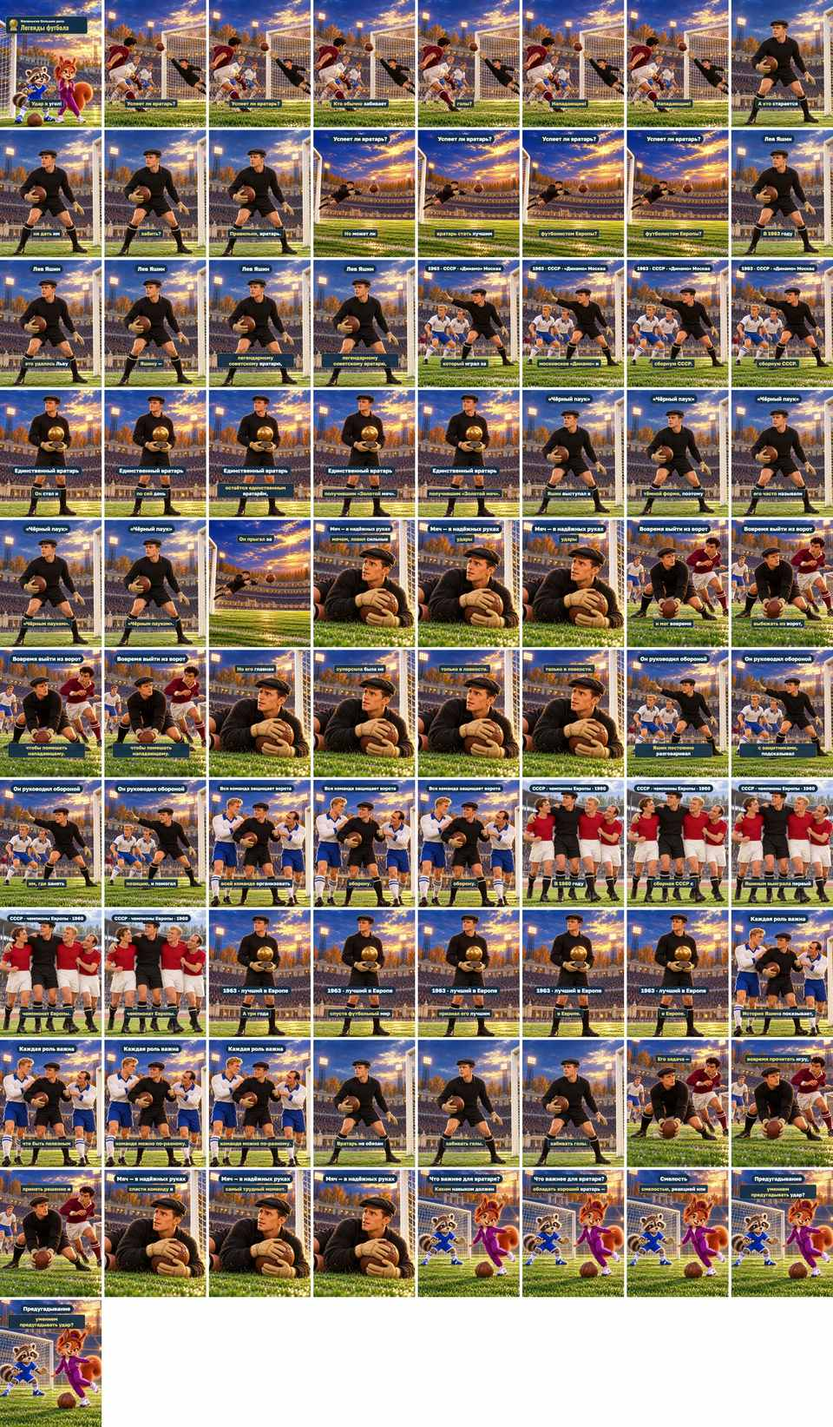
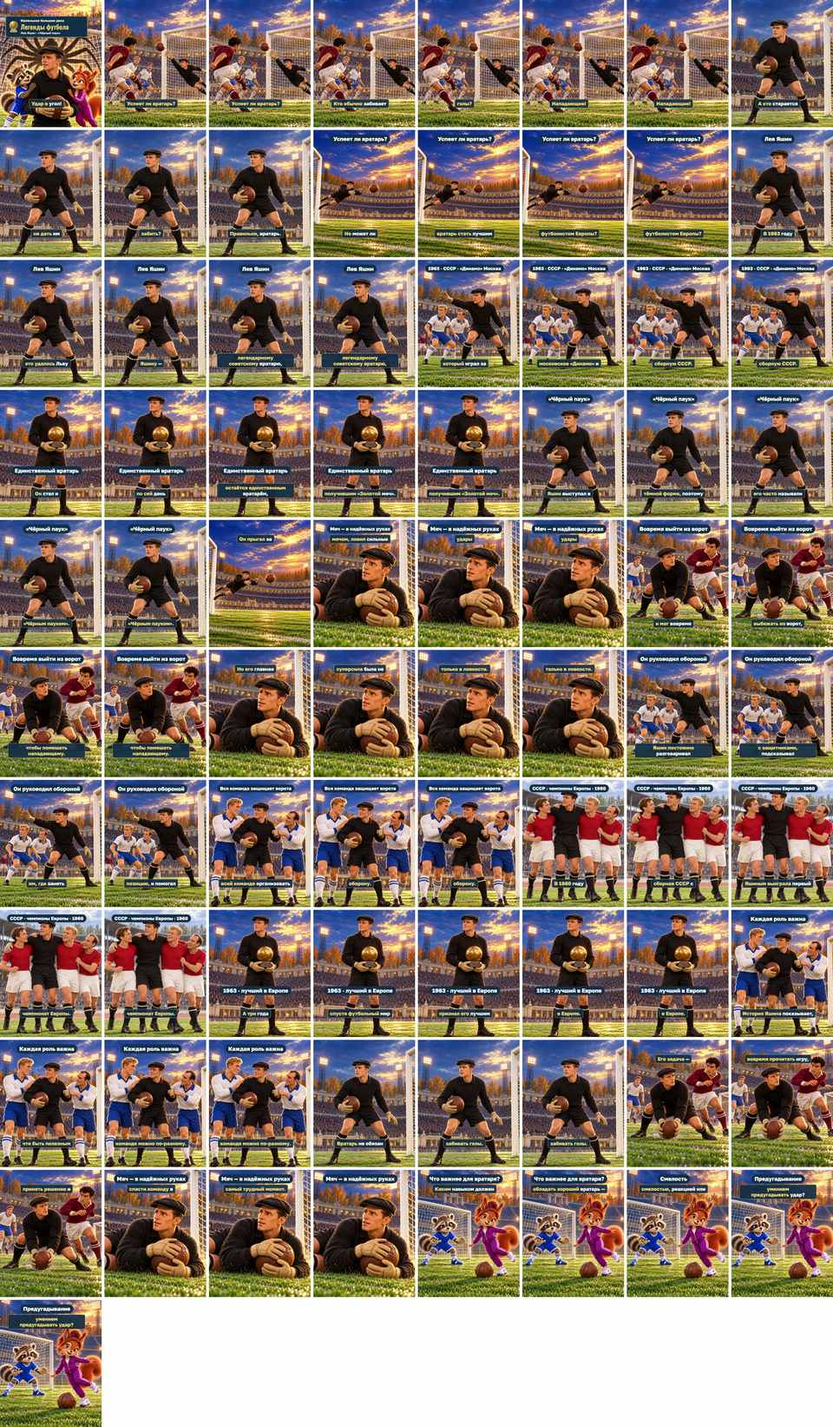
Give Yashin a Black Spider series opening

Changed region(s): [[0.0, 0.0, 0.125, 0.0931]]

diff --git a/docs/planning/HANDOFF.md b/docs/planning/HANDOFF.md
@@ -12,7 +12,7 @@
 
 **Выпуск 8 «Денис Лоу — король голов», актуализация 31.10.2026:** [выпуск](../../content/videos/football-legends-08-law/README.md) обновлён после просмотра владельцем. На первом кадре оба названия серии, значок, имя и проверенное прозвище «Король» (The King, Denis Law Legacy Trust), на картинке добродушная шутка — наклонённая корона. Историческая форма/старый Stretford End/северный свет и прежние Матвей/София сохранены. Новое правило в AGENTS.md, библии/формате и рецепте: имя + проверенное прозвище/отличительная черта + узнаваемая визуальная идея, не выдавать метафору за исторический костюм и не придумывать прозвища. Следующие/намеренно переделанные эпизоды применяют его, старые выдачи автоматически не заменяются. По отзыву об ударении реплика переформулирована: «эти мастера́ с разными умениями…» вместо «три разных ма́стера…»; последнее нормативно после числительного, поэтому глобальную ошибочную замену не внесли. Словарный источник Gramota/mark:false, явная подсказка мастерА только в новой однозначной фразе. Прежний OmniVoice B0,90/off; новая запись только team, хеши других12 реплик неизменны. 83.03с/13сцен, 1080×1920/30, QA15/15, декод по2488кадров, просмотрены 36 моментов MP4 и кропы, 163 моментов субтитров/76 обратных переходов без ошибок. Встроенный GPT Image без раскрытого идентификатора: 21 генерация/12 выбранных. Выдача ~/Downloads/football-legends-08-law-2026-10-31/ обновлена, V1 мастер сохранён в .reel/history/v1. Остальной текст владельца сохранён, цифры237/404 привязаны к источнику. Одобрения технические, слуховая/редакторская оценка владельцем открыта; публикации нет.
 
-**Выпуск 7 «Лев Яшин — вратарь, который получил „Золотой мяч“», 30.10.2026:** [собран](../../content/videos/football-legends-07-yashin/README.md) по тексту владельца с просьбой об остросюжетности и ярких детальных рисунках. Общий первый кадр: «Маленькие большие дела», «Легенды футбола» и золотой значок, прежние Матвей/София. Встроенный GPT Image (версия не раскрыта инструментом), 17 генераций/11 выбранных картинок, архивный эталон лица; тёмный свитер/кепка, мокрый изумрудный газон, сапфир/золото, разные лица и форма команд, отдельная сборная СССР в 1960-м. Игровые действия/свет/погода художественные, не реконструкция матча; адаптации архива с отдельной атрибуцией в CREDITS.md. Добавлен короткий хук «Удар в угол! Успеет ли вратарь?», тело/финальный вопрос сохранены. Полёт, перчатки с мячом, перехват и руководство обороной; титры сдвинуты с действия. Прежний OmniVoice B 0,90/off; оборвавшийся ответ «Правильно, вратарь» восстановлен объединением реплик, новая запись совпадает на100%; голы́ с ударением наЫ сохранены. 90.19 с, 17 сцен, 1080×1920/30fps, QA 15/15, полный декод обоих MP4 по 2702 кадров, 46 просмотренных моментов, 175 моментов субтитров/98 обратных переходов без ошибок. Выдача ~/Downloads/football-legends-07-yashin-2026-10-30/. Одобрения только технические, оценка голоса/выпуска владельцем открыта; публикации нет. Эффект удержания не измерен.
+**Выпуск 7 «Лев Яшин — вратарь, который получил „Золотой мяч“», паучья заставка 31.10.2026:** [выпуск](../../content/videos/football-legends-07-yashin/README.md) намеренно переделан по просьбе владельца вслед за короной Лоу. На первом кадре оба названия, золотой знак, «Лев Яшин · „Чёрный паук“», сам Яшин с мячом и прежние Матвей/София. На сетке за вратарём отдельный крупный паучий силуэт, не пририсованные человеческие конечности и не исторический маскот; прозвище перепроверено у организатора Ballon d’Or. Сохранены чёрный свитер/кепка, эпоха и мокрая изумрудно-сапфирово-золотая атмосфера. Встроенный GPT Image, версия инструментом не раскрыта: 18 генераций/11 выбранных, архивная атрибуция/CC BY-SA3.0NL новой заставки сохранены. Только первый фон/имя/прозвище и производные превью изменены. Все 17 записей голоса совпадают по SHA256, все начала/длительности сцен прежние: OmniVoice B0,90/off, полные реплики, голы́ сохранены. 90.19с/17сцен, 1080×1920/30, QA15/15, декод по2702кадров, 46 просмотренных моментов MP4 и кропы, 175 моментов субтитров/98 обратных переходов без ошибок. Новая выдача ~/Downloads/football-legends-07-yashin-spider-2026-10-31/, прежняя от30.10 сохранена. Принцип подтверждён в библии/рецепте; другие прежние эпизоды автоматически не меняются. Одобрения технические, слуховая/редакторская оценка владельцем открыта; публикации нет.
 
 **Общая тема «Легенд футбола» и выпуск 6, 30.10.2026:** владелец закрепил на первом кадре «Маленькие большие дела», «Легенды футбола» и знак золотого мяча; общая scene series-cover, football-legends.css и SVG, голос сразу, переход в историю по реплике. Правило записано в AGENTS.md, библии и [рецепте](../how-to/football-series.md); одинаковы ведущие/типографика, отличаются исследованные место, эпоха, форма, лица команд, свет и палитра. Применено к Сивори (новая выдача 81,324 с; прежние выбранные аудиореплики и голы́/удосто́енным сохранены) и [Масопусту](../../content/videos/football-legends-06-masopust/README.md). Для Масопуста — солнечный Сантьяго/«Насьональ» и отдельная пражская сцена «Дуклы», встроенный GPT Image по прямому выбору владельца, версия модели не раскрыта инструментом, 15 генераций/10 выбранных картинок; источник лица и условия адаптаций в CREDITS.md. По дополнительной просьбе владелец разрешил пилот удержания: начальный парадокс, смены планов, счёт, поражение, ответ про вклад и поддержка. Исходное тело/вопрос сохранены, добавлен только хук. Это гипотеза, метрик досмотров нет. Масопуст: 88.09 с, QA 15/15, 2638 кадров в каждом MP4, 41 просмотренных моментов, 175 моментов субтитров и 90 обратных переходов без ошибок. 124 теста прошли. Выдачи ~/Downloads/football-legends-06-masopust-2026-10-30/ и ~/Downloads/football-legends-05-sivori-series-2026-10-30/. Старые эпизоды 1–4 автоматически не переизданы. Одобрения технические; прослушивание/оценка владельцем открыты, публикации нет.
 

diff --git a/content/videos/football-legends-07-yashin/README.md b/content/videos/football-legends-07-yashin/README.md
@@ -2,7 +2,9 @@
 
 Выпуск **7** [«Легенд футбола»](../../series/football-legends.md), текст владельца от 30.10.2026. По просьбе сделать историю остросюжетнее добавлена короткая завязка «Удар в угол! Успеет ли вратарь?». Исходный рассказ и финальный вопрос сохранены, скопированная подпись источника и служебные заголовки убраны.
 
-Первый кадр сразу показывает «Маленькие большие дела», «Легенды футбола» и общий золотой футбольный значок. Ведущие Матвей и София прежние. У этого выпуска своя атмосфера: мокрый изумрудный газон, сапфировое небо, золотистый свет, капли на сетке и чёрная форма вратаря. Приближающийся удар → прыжок → мяч в перчатках → выход из ворот → подсказки обороне → команда. Крупный план чередуется с общим, камера и эффекты следуют репликам. Сцены — художественная иллюстрация эпохи, не реконструкция конкретного спасения; «Чёрный паук» остаётся прозвищем, лишних рук/лап нет.
+Первый кадр сразу показывает «Маленькие большие дела», «Легенды футбола», общий золотой футбольный значок и **«Лев Яшин · „Чёрный паук“»**. По просьбе владельца от 31.10.2026 заставка переделана в узнаваемую метафору прозвища: Яшин с мячом, прежние Матвей и София, на сетке позади — отдельный крупный силуэт паука. У вратаря обычные две руки, силуэт не присоединён к телу; это визуальная шутка, не исторический факт и не новый ведущий серии.
+
+У этого выпуска своя атмосфера: мокрый изумрудный газон, сапфировое небо, золотистый свет, капли на сетке и чёрная форма вратаря. Приближающийся удар → прыжок → мяч в перчатках → выход из ворот → подсказки обороне → команда. Крупный план чередуется с общим, камера и эффекты следуют репликам. Сцены — художественная иллюстрация эпохи, не реконструкция конкретного спасения. Обновлены только заставка и связанные подписи/превью; рассказ, голос, тайминги и остальные сцены сохранены.
 
 Для сходства использованы архивный портрет и постоянный эталон Яшина: длинное лицо, характерный нос/скулы, короткий пробор, кепка, тёмный свитер и простые перчатки. У защитников и нападающего разные лица и форма. Сборная СССР в отдельной сцене 1960 года отличается от клубного эпизода. [Источники и оговорки](sources.md) · [промпты, эталоны и происхождение](images.json) · [кредиты](CREDITS.md).
 
@@ -10,10 +12,10 @@
 
 ## Техническая проверка
 
-90,19 с, 17 сцен, 1080×1920/30 fps, H.264/AAC, −14 LUFS. QA 15/15, мастер и web полностью декодируются по 2702 кадров; просмотрены 46 моментов MP4, включая первый/последний кадры и смены по репликам. Геометрия 175 моментов субтитров и 98 обратного перехода — без ошибок; кропы ленты и обложки просмотрены. В крупных планах подписи подняты на свободный фон, чтобы не закрывать мяч, перчатки и игровой жест.
+Версия с паучьей заставкой: 90,19 с, 17 сцен, 1080×1920/30fps, H.264/AAC, −14 LUFS. QA15/15; оба MP4 полностью декодируются по 2702 кадров. Просмотрены 46 моментов готового MP4, первый/последний кадры, смена заставки, игровые действия и кропы ленты/обложки. 175 моментов субтитров и 98 обратных переходов без ошибок. Имя/прозвище и лица внутри центрального квадрата; отдельный силуэт на сетке читается за вратарём.
 
-Изначально короткая реплика обрывалась перед «Правильно, вратарь» (77,8 % совпадения). Вопрос/ответ и следующий вопрос объединены без удаления слов и переозвучены прежним голосом: совпадение 100 %, смена картинки по best. Старая запись в финал не вошла. Ударения по одному ASR не подтверждаются.
+Все 17 файлов озвучки побайтно совпадают с предыдущим выпуском; начала/длительности всех сцен неизменны. Сохранены прежний OmniVoice B0,90/off, восстановленные полные реплики и окончание голы́. Нового синтеза и смены голоса не было. Слуховая оценка владельцем остаётся открытой.
 
-17 генераций встроенным GPT Image, 11 картинок выбраны для монтажа; промпты, родительские варианты и хеши сохранены. Исправлены край мяча, место под титул, случайные буквы, детали формы и перчатки партнёра. [QA](preview/QA.md) · [верификация](preview/verification.json) · [превью](preview/reels.jpg) · [лента 4:5](preview/feed-preview.jpg) · [обложка 1:1](preview/cover-preview.jpg).
+18 генераций встроенным GPT Image, 11 картинок выбраны: прежняя заставка заменена одной новой, все игровые иллюстрации сохранены. У новой заставки также сохранены архивная атрибуция и CC BY-SA3.0NL; детали в CREDITS.md/images.json. [QA](preview/QA.md) · [верификация](preview/verification.json) · [превью](preview/reels.jpg) · [лента 4:5](preview/feed-preview.jpg) · [обложка 1:1](preview/cover-preview.jpg).
 
-Выдача: `~/Downloads/football-legends-07-yashin-2026-10-30/` — мастер, web-копия, субтитры, обложка, раскадровка, QA, POST.txt, UPLOAD.txt и manifest.json. Оригиналы картинок, аудио, видео и фото вне Git.
+Новая выдача: `~/Downloads/football-legends-07-yashin-spider-2026-10-31/` — мастер, web, субтитры, обложка, раскадровка, QA, POST.txt, UPLOAD.txt и manifest.json. Предыдущая выдача от30.10 сохранена отдельно; исходный мастер и верификация также в локальной .reel/history/pre-spider. Оригиналы картинок/фото/аудио/видео вне Git. Публикации нет.

diff --git a/content/videos/football-legends-07-yashin/PLAN.ru.md b/content/videos/football-legends-07-yashin/PLAN.ru.md
@@ -14,8 +14,8 @@
 
 | | | Кто и когда |
 |---|---|---|
-| Сценарий | ⚙ техническое (агент) | agent 2026-10-30 |
-| Раскадровка | ⚙ техническое (агент) | agent 2026-10-30 |
+| Сценарий | ✏ изменено после одобрения | agent 2026-10-31 |
+| Раскадровка | ⚙ техническое (агент) | agent 2026-10-31 |
 | Выпуск | ⏳ ждёт |   |
 
 Одобрить: `storygro approve <spec> --step script|storyboard|release` (агент — с `--agent`).
@@ -23,9 +23,9 @@
 ## Вопросы
 
 - [ ] **owner** · Подходят ли «Льву Яшину», «вратарём», «голы́» и рассказчик в готовом MP4?
-- [ ] **owner** · Достаточно ли напряжения в ударе/спасении, подходит ли яркая атмосфера и сходство Яшина?
+- [ ] **owner** · Подходит ли заставка «Лев Яшин · Чёрный паук» с силуэтом паука на сетке и прежними ведущими?
 
-**Заметки:** Owner supplied script preserved, excluding copied UEFA.com+1 and section headings. Added a short illustrative action hook following request for a more suspenseful episode. Shared title/emblem at frame zero. Match actions, weather and light are artistic, not claims of a particular recorded save. Same selected narrator. Technical approvals only; no promise of retention uplift. Final technical version 90.19 s, 17 scenes, QA 15/15; full decode 2702 frames per file, 46 inspected MP4 moments and feed/cover crops; 175 caption samples and 98 reverse seeks with no layout failures. Truncated short keeper take replaced by a complete context-preserving merged line, matched100%. 17 imagegen generations/11 selected. Owner listening/editorial review remain open. No publication.
+**Заметки:** Cover revision requested by owner, 31 October 2026: apply shared player-name/nickname/visual-metaphor format to episode7. New cover adds Yashin with a separate graphic spider shadow on the goal net; human anatomy remains normal. Names, series titles and golden emblem readable at frame zero. Original narration, selected OmniVoice B0.90/off, cues, all remaining scene art and timing retained. Prior technical metrics are historical until current rerender/QA. Technical approvals only; no owner approval or public upload. Current rerender: 90.19s, 17scenes, QA15/15; both MP4 fully decode 2702frames, 46 inspected MP4 moments plus feed/cover. 175 caption samples/98 reverse seeks, no failures. All 17 narration SHA256 hashes and every scene start/duration equal the pre-spider version. 18 generations/11 selected art. Cover change only; technical approval, owner editorial review remains open.
 
 ## Хук
 
@@ -41,11 +41,11 @@
 
 **Голос:** Удар в угол! Успеет ли вратарь?
 
-**На экране:** «Маленькие большие дела» · «Легенды футбола» · «shot»
+**На экране:** «Маленькие большие дела» · «Легенды футбола» · «shot» · «Лев Яшин · «Чёрный паук»»
 
 **Звук:** swell @0.0, whoosh @1.7
 
-**Факты:** `facts.series.project` = «Маленькие большие дела» · `facts.series.title` = «Легенды футбола»
+**Факты:** `facts.series.project` = «Маленькие большие дела» · `facts.series.title` = «Легенды футбола» · `facts.series.episode` = «Лев Яшин · «Чёрный паук»»
 
 ### 2. attack · 2.5–5.7 с · `illustration`
 
@@ -309,7 +309,7 @@
 
 | | |
 |---|---|
-| `facts.series` | Owner script and request, 30 October 2026: episode7 Lev Yashin, a more suspenseful vivid detailed video, shared project/series title and golden football emblem on frame zero. |
+| `facts.series` | Owner script and request, 30 October 2026: episode7 Lev Yashin, a more suspenseful vivid detailed video, shared project/series title and golden football emblem on frame zero. Owner request, 31 October 2026: apply the nickname/metaphor cover to episode7; nickname verified in S1 https://ballondor.com/news/posts/can-a-goalkeeper-win-the-ballon-dor-what-history-says |
 | `facts.player` | [S1] https://ballondor.com/news/posts/can-a-goalkeeper-win-the-ballon-dor-what-history-says; [S2] https://www.uefa.com/uefaeuro/history/news/0253-0d7f20bc921c-495824f652eb-1000--uefaeuro1960-team-of-the-tournament/; [S4] https://stars.fcdynamo.ru/yashin.html |
 | `facts.history` | [S2] https://www.uefa.com/uefaeuro/history/news/0253-0d7f20bc921c-495824f652eb-1000--uefaeuro1960-team-of-the-tournament/; [S1] https://ballondor.com/news/posts/can-a-goalkeeper-win-the-ballon-dor-what-history-says |
 | `facts.skill` | [S3] https://inside.fifa.com/tournaments/mens/worldcup/2018russia/news/2018-fifa-world-cup-russiatm-official-poster-unveiled-at-moscow-metro-2921534; [S2] https://www.uefa.com/uefaeuro/history/news/0253-0d7f20bc921c-495824f652eb-1000--uefaeuro1960-team-of-the-tournament/; owner script |
@@ -324,3 +324,5 @@
 > Что важнее для вратаря: смелость, реакция или умение предугадать удар?
 >
 > Выпуск 7 «Легенд футбола» проекта «Маленькие большие дела». Источники: Ballon d’Or, UEFA, FIFA, «Динамо» Москва. Иллюстрации созданы встроенным GPT Image по архивным ориентирам; игровые сцены, свет и погода художественные, не запись конкретного матча. Источник образа: Henk Lindeboom / Anefo, Nationaal Archief (CC BY-SA 3.0 NL), адаптировано в 3D-иллюстрации. Голос рассказчика синтетический (OmniVoice). Ролик не связан с футболистами, клубами или организаторами награды.
+>
+> «Чёрный паук» — прозвище Яшина. Силуэт паука на сетке в заставке — шутливая визуальная метафора его реакции; вратарь остаётся обычным человеком.

diff --git a/content/series/football-legends.md b/content/series/football-legends.md
@@ -21,6 +21,8 @@
 
 ## Как выглядит
 
+**Яшин, отдельная правка владельца 31.10.2026:** принцип прозвища применён и к выпуску 7. На заставке «Лев Яшин · „Чёрный паук“», сам вратарь и прежние ведущие; позади на сетке крупный отдельный силуэт паука. Это метафора прозвища, у Яшина обычное тело, без пририсованных лап. Сохраняются рассказ, голос, тайминги, историческая форма и атмосфера выпуска. Отдельная новая выдача с пауком сохраняет прежнюю версию локально.
+
 **Дополнение владельца от 31.10.2026 после просмотра выпуска 8:** на заставке также показывать проверенное прозвище или короткую отличительную черту игрока и обыгрывать её узнаваемой, доброй визуальной шуткой. У Лоу — «Король» (The King, источник фонда его наследия) и чуть съехавшая золотая корона. Имя, оба общих названия и значок награды остаются; прозвище/черта идут в строке с именем. Если устойчивое прозвище не подтверждено, не придумывать его как исторический факт: использовать редакторское описание умения. Для каждого выпуска — собственная идея из его истории; сохранить героев, историческую форму и стадион, проверять дополнительный предмет и весь титул в центральном квадрате. Корона — метафора, не исторический костюм Лоу. Правило для следующих и намеренно переделываемых выпусков; прежние файлы автоматически не заменяются.
 
 **Поправка владельца от 31.10.2026:** на самом первом кадре обязательно также **имя футболиста**. Полная связка: «Маленькие большие дела» + «Легенды футбола» + золотой футбольный значок + имя героя; всё читается при `t=0` и сохраняется в центральном квадрате. В `series-cover` использовать `subtitleFrom: facts.series.episode`, где записано имя. После добавления строки заново проверить место над лицами/ушами, не сжимая весь монтаж. Впервые применено к [выпуску 8, Денис Лоу](../videos/football-legends-08-law/README.md); прежние выдачи без отдельного запроса не заменяются. Форма, стадион и атмосфера приближаются к историческим источникам: фиксировать дату и роль фото, различать перестройки трибун и эпохи воротников, убирать выдуманные городские силуэты и современные детали. Художественный 3D-стиль и одежда ведущих прежние; точность периода не означает документальную реконструкцию матча.

diff --git a/content/videos/football-legends-07-yashin/sources.md b/content/videos/football-legends-07-yashin/sources.md
@@ -2,6 +2,8 @@
 
 Checked 30 October 2026. The owner supplied the body and final question and requested a more suspenseful, vivid episode. A short illustrative action hook was added; the body is retained, omitting copied source labels and section headings. The opening save is not attributed to a particular recorded match.
 
+Cover revision, 31 October 2026: owner requested the same nickname/metaphor principle as Law's King cover. S1 rechecked and confirms “Black Spider”. The first frame now includes the player name/nickname and Yashin with an independent graphic spider silhouette on the goal net. This is a playful visual metaphor, not an anatomical claim, actual mascot or historical event. Human arms/hands remain normal; narrative gameplay and all narration are retained. The cover uses the existing Yashin portrait reference and retains its attribution/share-alike notice.
+
 | ID | Claim | Primary source and short quotation | Caveat |
 |---|---|---|---|
 | S1 | 1963 award, Dynamo, USSR, still the only goalkeeper winner, nickname | [Ballon d'Or organiser](https://ballondor.com/news/posts/can-a-goalkeeper-win-the-ballon-dor-what-history-says): “only one goalkeeper win the Ballon d’Or: Soviet legend Lev Yashin in 1963”; “Black Spider” | Time-sensitive distinction checked on the episode date. The separate modern Yashin Trophy is not the main Ballon d'Or. No statistics from the page are added. |
@@ -18,7 +20,7 @@ The opening challenge, team-role lesson and viewer's choice of goalkeeper skills
 - Period diving pose and open terraces: [Lev Yashin 1962](https://commons.wikimedia.org/wiki/File:Lev_Yashin_1962.jpg), Vyacheslav Un Da-Sin / Moscow Main Archive, [Mos.ru](https://www.mos.ru/news/item/122488073/), 28 October 1962; [CC BY 4.0](https://creativecommons.org/licenses/by/4.0/). Viewed as period research, not a source for a claimed reconstruction. This photo's venue is Luzhniki; our Moscow club action setting is an illustrative Dynamo-era stadium, not a claim that the archived match took place there.
 - Original host references: owner-approved Matvey/Sofia. No host face or clothing redesign. Beige goalkeeper gloves are a story accessory for Matvey.
 
-Moscow's classical stadium frontage, open stands, birch trees, wet pitch and sapphire/gold evening light are artistic period atmosphere. They are not weather/time claims for a named historical game. The 1960 national-team scene uses a separate old Paris stadium interpretation with cycle-track/open terraces, not modern Parc des Princes architecture; team colours are distinct from the club scene. No literal spider anatomy, modern black-and-white ball, sponsor, crest, flag or generated lettering is used. Exact prompts, variant parents, reference hashes and selected files are in images.json. Original photographs stay in ignored private/.
+Moscow's classical stadium frontage, open stands, birch trees, wet pitch and sapphire/gold evening light are artistic period atmosphere. They are not weather/time claims for a named historical game. The 1960 national-team scene uses a separate old Paris stadium interpretation with cycle-track/open terraces, not modern Parc des Princes architecture; team colours are distinct from the club scene. No altered human anatomy, modern black-and-white ball, sponsor, crest, flag or generated lettering is used. The cover's separate spider graphic is the explicitly requested nickname metaphor. Exact prompts, variant parents, reference hashes and selected files are in images.json. Original photographs stay in ignored private/.
 
 ## Pronunciation
 

diff --git a/content/TRACKER.md b/content/TRACKER.md
@@ -44,7 +44,7 @@
 | [Луис Суарес Мирамонтес — архитектор футбола](videos/football-legends-04-suarez/PLAN.ru.md) | ru (ru) | football-legends | сценарий | ждёт тебя: одобрить сценарий | ⚙ ⚙ ⏳ | 91.3 с | pass | 9/9 | 2 | — |
 | [Омар Сивори — маленький волшебник с мячом](videos/football-legends-05-sivori/PLAN.ru.md) | ru (ru) | football-legends | сценарий | ждёт тебя: одобрить сценарий | ⚙ ⚙ ⏳ | 81.3 с | pass | 7/7 | 2 | — |
 | [Йозеф Масопуст — гол в финале чемпионата мира](videos/football-legends-06-masopust/PLAN.ru.md) | ru (ru) | football-legends | сценарий | ждёт тебя: одобрить сценарий | ⚙ ⚙ ⏳ | 88.1 с | pass | 4/4 | 2 | — |
-| [Лев Яшин — вратарь, который получил «Золотой мяч»](videos/football-legends-07-yashin/PLAN.ru.md) | ru (ru) | football-legends | сценарий | ждёт тебя: одобрить сценарий | ⚙ ⚙ ⏳ | 90.2 с | pass | 5/5 | 2 | — |
+| [Лев Яшин — вратарь, который получил «Золотой мяч»](videos/football-legends-07-yashin/PLAN.ru.md) | ru (ru) | football-legends | сценарий | ждёт тебя: одобрить сценарий | ✏ ⚙ ⏳ | 90.2 с | pass | 5/5 | 2 | — |
 | [Денис Лоу — король голов](videos/football-legends-08-law/PLAN.ru.md) | ru (ru) | football-legends | сценарий | ждёт тебя: одобрить сценарий | ✏ ⚙ ⏳ | 83 с | pass | 5/5 | 2 | — |
 | [Звёзды футбола: собираем альбом](videos/football-stars-kids/PLAN.ru.md) | ru (ru) | kids-football | сценарий | ждёт тебя: одобрить сценарий | ⏳ ✏ ⏳ | 117.5 с | pass | 14/14 | 3 | — |
 | [Будущее работы — кто отвечает за результат](videos/future-of-work/README.md) | ru (ru) | business-explainers | раскадровка | ждёт тебя: одобрить раскадровку | — ✏ ⏳ | 76.8 с | pass | 2/2 | — | — |

diff --git a/docs/how-to/football-series.md b/docs/how-to/football-series.md
@@ -19,3 +19,5 @@ Keep a short answer with its question and a conjunction-led clause with its prec
 [Episode 8](../../content/videos/football-legends-08-law/README.md) adds the mandatory player name using the existing subtitle contract. Its historical-detail pass uses period kit references and old Stretford End geometry: distinguish the older end terrace from the side stand rebuilt during the mid1960s. Record the date and role of every archive reference; a later photograph may support an unchanged detail, not the whole earlier panorama. Remove fantasy city skylines, modern sponsors and generic stadium architecture. Keep the family3D medium and established host clothing; historical closeness does not imply an exact match reconstruction. Earlier delivered episodes are not silently reissued.
 
 The owner's further cover amendment (31 October 2026) adds a **verified nickname or distinctive trait plus a recognisable playful visual idea**, starting with Law's «Король»/The King and a slightly tilted crown. Put the nickname/trait with the player name in the data-bound subtitle; retain both shared titles and the football emblem. Research an actual nickname before presenting it as one; if none is established, use a clearly editorial skill/trait description. Develop a different metaphor for each episode, tied to its story. A comic accessory is a visual metaphor, not evidence of a historical costume or event: retain the period kit, venue and cast underneath it. Recheck the central square with the new accessory and extra title length. Apply to subsequent/newly remade episodes.
+
+The owner explicitly requested a matching revision of [Yashin's episode7](../../content/videos/football-legends-07-yashin/README.md): «Чёрный паук» with an independent spider silhouette on the goal net behind the ordinary human goalkeeper. Keep the metaphor visibly separate from anatomy, preserve the hosts and voice, and recheck the first-frame square crop. This is a deliberate earlier-episode remake under the cover rule, not an automatic replacement of every previous delivery.

diff --git a/content/videos/football-legends-07-yashin/VOICE-REVIEW.md b/content/videos/football-legends-07-yashin/VOICE-REVIEW.md
@@ -13,3 +13,5 @@ The owner listening question remains in review.yaml. No agent subjective listeni
 The initial short `keeper` take ended after the question, leaving “Правильно, вратарь” with zero-duration word timings and 77.8% matching. The question/answer and following question were joined into one context-preserving narration beat and revoiced with the same settings. The replacement matches all words; its illustration changes on the aligned `best` cue. No wording was removed and the interrupted take is not used in the final render.
 
 Full-file ASR then missed the opening conjunction “и” in the isolated short `defence` clause (83%). That clause was rejoined to the preceding sentence and revoiced with the same settings; the team image changes on the aligned `team` cue. The conjunction is retained in speech and captions. A file failing QA is not delivered.
+
+Cover-only revision, 31 October 2026: all 17 narration-file SHA256 hashes and every scene start/duration match the pre-spider version. The voice, hints and completed narration beats above are retained; only the first-frame art/name/nickname and derived visuals changed. Current verification: [preview/verification.json](preview/verification.json).

diff --git a/content/videos/football-legends-07-yashin/CREDITS.md b/content/videos/football-legends-07-yashin/CREDITS.md
@@ -1,5 +1,7 @@
 # Credits
 
+- Cover revision: owner, 31 October 2026. Name/nickname «Лев Яшин · Чёрный паук» and playful separate spider silhouette on the goal net; original hosts, kit, narration and timing retained. The new Yashin cover is an adaptation of the existing historical portrait reference and retains the attribution/share-alike terms below. The spider graphic is a metaphor, not an actual historical mascot or extra human limbs.
+
 - Body and final question: owner, 30 October 2026. Short illustrative action opening follows the request for greater suspense. Copied source labels/section headings omitted.
 - Hosts: original owner-approved Matvey/Sofia references, unchanged faces/clothes; goalkeeper gloves are a story accessory.
 - Art: built-in GPT Image, exact identifier not exposed, online and not seed-reproducible. Prompts, source roles and SHA-256 hashes in images.json; originals stay outside Git.

diff --git a/content/videos/football-legends-07-yashin/preview/QA.md b/content/videos/football-legends-07-yashin/preview/QA.md
@@ -11,7 +11,7 @@ File: `.reel/ru/football-legends-07-yashin-ru.mp4` (relative to the spec)
 | Audio track | pass | Audio: aac (LC) (mp4a / 0x6134706D), 48000 Hz, stereo, fltp, 198 kb/s (default) |
 | Length | pass | 90.19 s (planned 90.19 s) |
 | Loudness | pass | -14 LUFS integrated (target -14), true peak -1.1 dBFS |
-| Frame 0 is a hook | pass | contrast 2156 (needs content, not a black frame) |
+| Frame 0 is a hook | pass | contrast 2551 (needs content, not a black frame) |
 | No black stretches | pass | none ≥ 0.4 s |
 | Scenes render without errors | pass | 17 scenes, missing images/fonts included |
 | Numbers come from the facts | pass | 17 scenes read |
